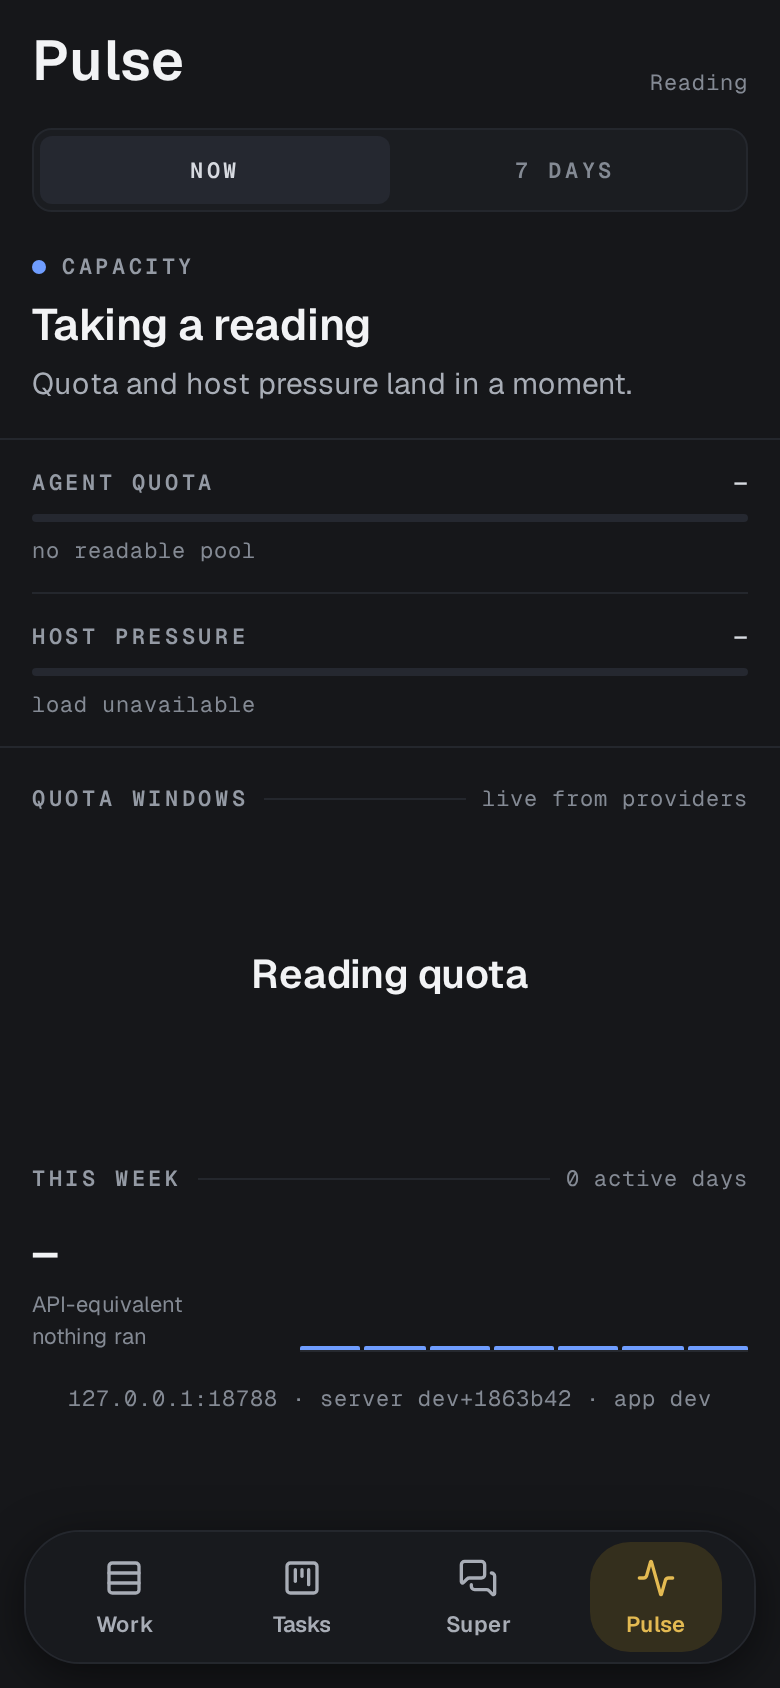
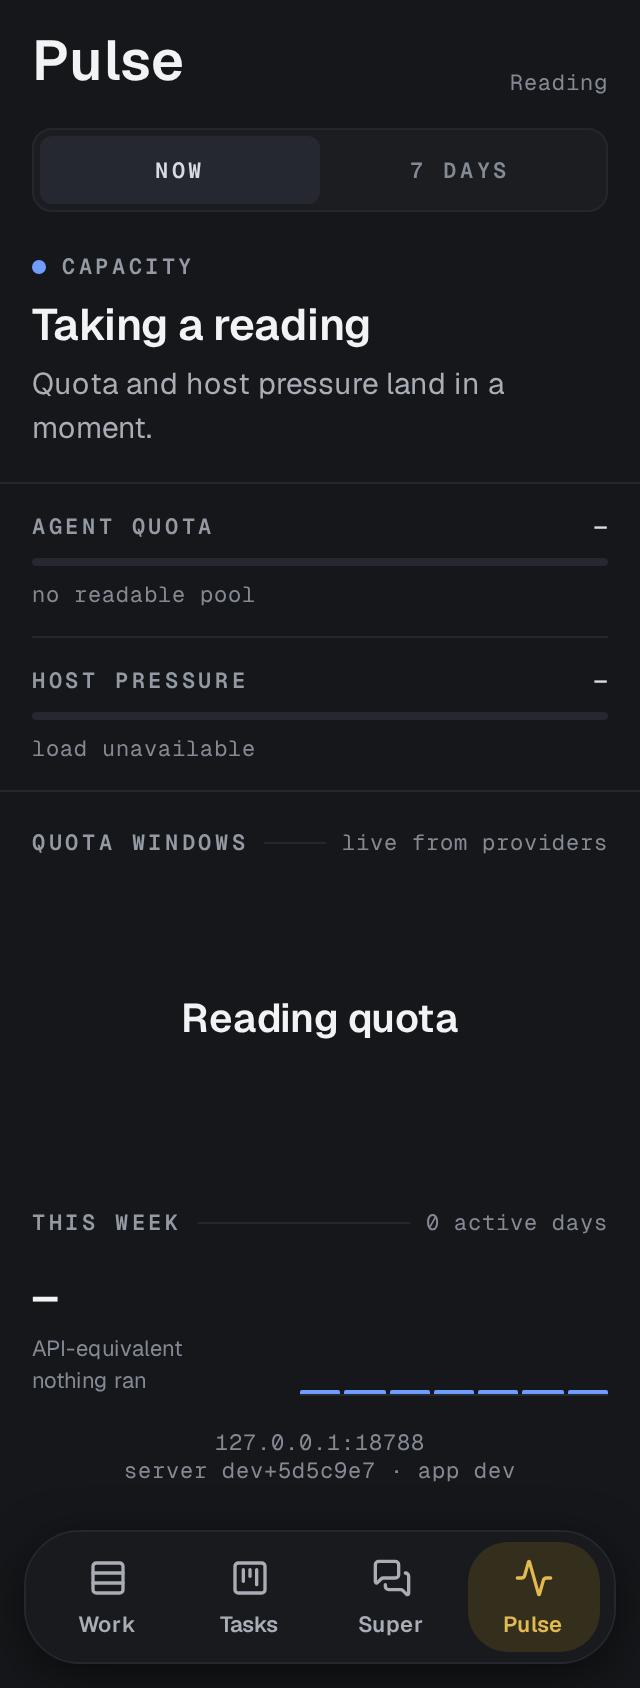
fix(mobile): break the Pulse build stamp across two lines
On a real handset the one-line stamp truncated, and what it cut was
the versions — the entire point of it. The break is now placed rather
than left to the layout: the host on the first line, the two versions
on the second, which is also the reading order.

Each segment is joined with non-breaking spaces, so a narrower screen
wraps at a separator instead of splitting a version in half, and the
Text allows a third line rather than clamping.

Podium-Issue: POD-2006

diff --git a/apps/mobile/src/lib/build-stamp.ts b/apps/mobile/src/lib/build-stamp.ts
@@ -5,8 +5,8 @@
  * A phone can be pointed at a laptop, a tailnet box or a packaged deployment,
  * and nothing on screen used to say which; after a redeploy "is this the new
  * code?" was unanswerable without opening a terminal. So the Pulse tab carries
- * one dim mono line naming the host and BOTH versions side by side, because the
- * failure that matters is a mismatch between them.
+ * a dim mono stamp naming the host and BOTH versions, because the failure that
+ * matters is a mismatch between them.
  *
  * `dev+<sha7>` is the server's own convention (`apps/server/src/build-version.ts`)
  * and is greppable against `git log`; the app side is the Expo build-time
@@ -26,6 +26,10 @@ export type ServerProbe =
   /** The probe failed. `lastVersion` is what it said the last time it answered. */
   | { status: 'offline'; lastVersion?: string }
 
+/** U+00A0, written as an escape so the source stays greppable and no editor or
+ *  formatter can silently turn it back into an ordinary space. */
+const NBSP = '\u00A0'
+
 /** `http://ludovico:18787/` → `ludovico:18787`. The scheme never varies in
  *  practice and a full URL does not fit the line. */
 export function originHost(httpOrigin: string): string {
@@ -36,29 +40,53 @@ export function originHost(httpOrigin: string): string {
   }
 }
 
+export interface BuildStampInput {
+  httpOrigin: string | undefined
+  server: ServerProbe
+  app: string
+}
+
 /**
- * The one line, in every state it has.
+ * The stamp as its parts, in every state it has.
  *
  * OFFLINE LEADS WITH THE WORD, not the host: an unreachable server is the thing
  * to read first, and the version it last reported is stale by definition, so it
  * is labelled `last` rather than presented as current.
  */
-export function formatBuildStamp(input: {
-  httpOrigin: string | undefined
-  server: ServerProbe
-  app: string
-}): string {
+export function buildStampSegments(input: BuildStampInput): string[] {
   const app = `app ${input.app}`
   const origin = input.httpOrigin?.trim()
-  if (!origin) return `not configured · ${app}`
+  if (!origin) return ['not configured', app]
 
   const host = originHost(origin)
-  if (input.server.status === 'ok')
-    return `${host} · server ${input.server.version ?? '?'} · ${app}`
-  if (input.server.status === 'pending') return `${host} · server ? · ${app}`
+  if (input.server.status === 'ok') return [host, `server ${input.server.version ?? '?'}`, app]
+  if (input.server.status === 'pending') return [host, 'server ?', app]
   return input.server.lastVersion
-    ? `offline · last server ${input.server.lastVersion} · ${app}`
-    : `offline · server ? · ${app}`
+    ? ['offline', `last server ${input.server.lastVersion}`, app]
+    : ['offline', 'server ?', app]
+}
+
+/** The whole stamp on one line — what a log line or a wide surface wants. */
+export function formatBuildStamp(input: BuildStampInput): string {
+  return buildStampSegments(input).join(' · ')
+}
+
+/**
+ * The stamp as the phone renders it: WHERE on the first line, WHAT on the second.
+ *
+ * ONE LINE DID NOT FIT A REAL HANDSET. It truncated, and the half it ate was the
+ * versions — the entire point of the stamp. So the break is placed rather than
+ * left to the layout: the host gets its own line and the two versions share the
+ * next one, which is also the reading order (where am I pointed / what is it
+ * running).
+ *
+ * Each segment is internally NON-BREAKING, so if the second line is still too
+ * wide — a long `dev+<sha>` beside a long app version on a narrow screen — it
+ * wraps at a separator rather than splitting a version in half.
+ */
+export function buildStampLines(input: BuildStampInput): string {
+  const [where, ...what] = buildStampSegments(input).map((s) => s.replaceAll(' ', NBSP))
+  return what.length === 0 ? where : `${where}\n${what.join(' · ')}`
 }
 
 /**
@@ -83,7 +111,7 @@ export async function probeServerVersion(
 }
 
 /**
- * The rendered line, plus the way to re-probe.
+ * The rendered stamp, plus the way to re-probe.
  *
  * CADENCE IS THE CALLER'S. There is no timer here: the stamp probes once on
  * mount and again whenever the screen it sits on refreshes, so a stale reading
@@ -119,7 +147,7 @@ export function useBuildStamp(): { text: string; reload: () => void } {
   }, [reload])
 
   return {
-    text: formatBuildStamp({ httpOrigin, server, app: appVersion() }),
+    text: buildStampLines({ httpOrigin, server, app: appVersion() }),
     reload: () => {
       reload()
     },

diff --git a/apps/mobile/src/lib/build-stamp.test.ts b/apps/mobile/src/lib/build-stamp.test.ts
@@ -1,5 +1,7 @@
 import { describe, expect, it } from 'vitest'
-import { formatBuildStamp, originHost, probeServerVersion } from './build-stamp'
+import { buildStampLines, formatBuildStamp, originHost, probeServerVersion } from './build-stamp'
+
+const NBSP = '\u00A0'
 
 describe('originHost', () => {
   it('keeps host and port, drops the scheme and path', () => {
@@ -70,6 +72,45 @@ describe('formatBuildStamp', () => {
     expect(formatBuildStamp({ httpOrigin: '   ', server: { status: 'pending' }, app: 'dev' })).toBe(
       'not configured · app dev',
     )
+  })
+})
+
+describe('buildStampLines', () => {
+  const lines = (text: string) => text.split('\n')
+
+  it('puts the host on its own line and the versions on the next', () => {
+    expect(
+      lines(
+        buildStampLines({
+          httpOrigin: 'http://ludovico:18787',
+          server: { status: 'ok', version: 'dev+1863b42' },
+          app: 'dev',
+        }),
+      ),
+    ).toEqual([`ludovico:18787`, `server${NBSP}dev+1863b42 · app${NBSP}dev`])
+  })
+
+  it('never leaves a breakable space inside a segment', () => {
+    const text = buildStampLines({
+      httpOrigin: 'http://ludovico:18787',
+      server: { status: 'offline', lastVersion: 'dev+1863b42' },
+      app: '0.4.1',
+    })
+    expect(lines(text)).toEqual([
+      'offline',
+      `last${NBSP}server${NBSP}dev+1863b42 · app${NBSP}0.4.1`,
+    ])
+    // The only ordinary spaces left are the ones flanking a separator: those are
+    // the wrap points, and there is nowhere else a line can break.
+    for (const segment of text.replace(/\n/g, ' · ').split(' · ')) {
+      expect(segment).not.toContain(' ')
+    }
+  })
+
+  it('still splits when there are only two segments', () => {
+    expect(
+      lines(buildStampLines({ httpOrigin: undefined, server: { status: 'pending' }, app: 'dev' })),
+    ).toEqual([`not${NBSP}configured`, `app${NBSP}dev`])
   })
 })
 

diff --git a/apps/mobile/src/screens/PulseScreen.tsx b/apps/mobile/src/screens/PulseScreen.tsx
@@ -141,8 +141,14 @@ export function PulseScreen() {
           )}
           {/* Which server, and what both ends are running — the question a
               redeploy leaves open and nothing else on the phone answers. Last
-              line on the tab, in both modes, deliberately quiet. */}
-          <Text style={styles.buildStamp} selectable numberOfLines={1}>
+              thing on the tab, in both modes, deliberately quiet.
+
+              TWO LINES, and the break is chosen rather than left to the layout:
+              on one line a real handset truncated it, and what it cut was the
+              versions. The third line is slack for a narrow screen, where the
+              version pair can wrap at its separator — never a clamp that would
+              eat half a version again. */}
+          <Text style={styles.buildStamp} selectable numberOfLines={3}>
             {buildStamp.text}
           </Text>
         </ScrollView>
